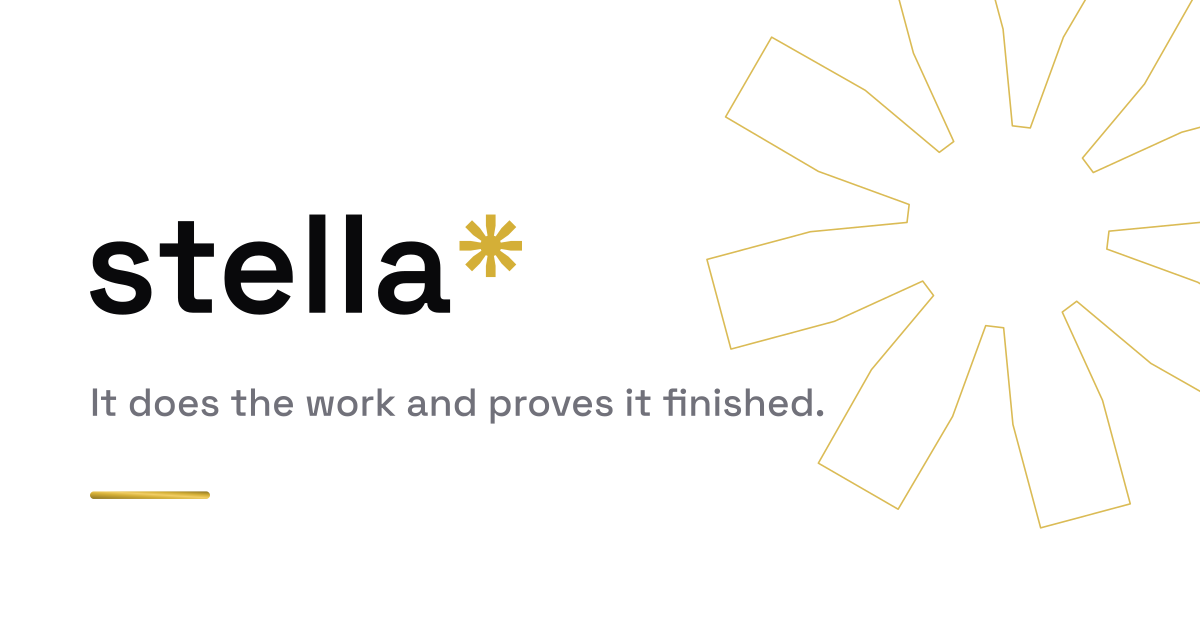
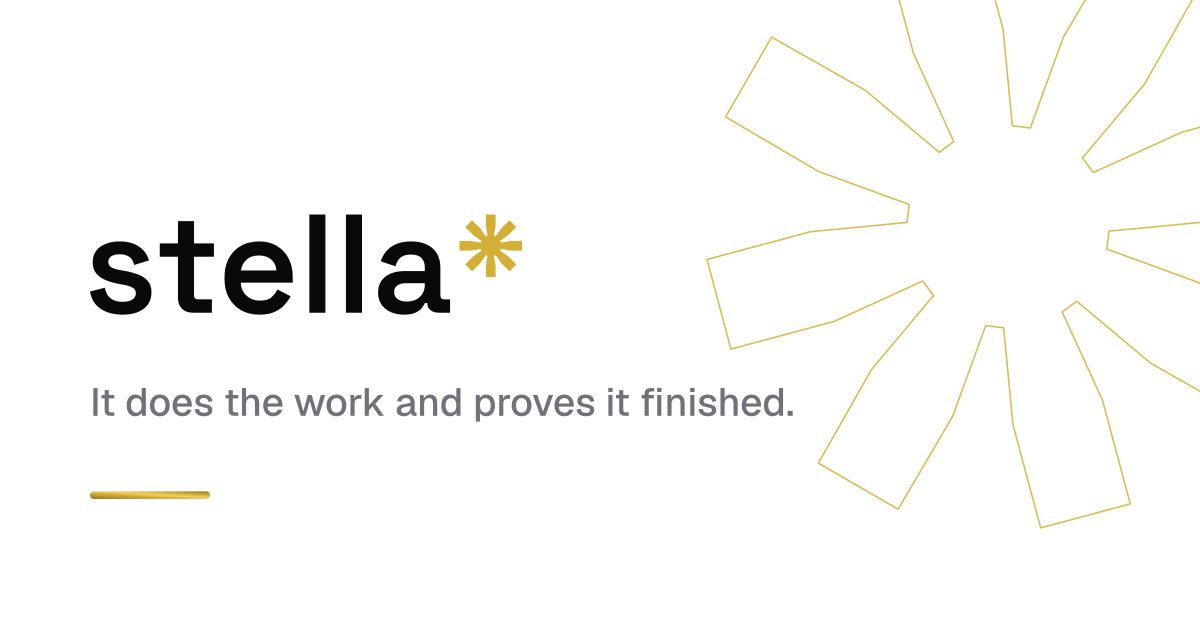
brand: sync to kit 2.5.0
Kit 2.5.0 (macanderson/oxagen-brand#49) adds a text stop for each state and
redraws the social art with Geist sublines. The sync brings in the new
tokens, the generated marks module, and the social images.

Changed region(s): [[0.0617, 0.6032, 0.6783, 0.6635]]

diff --git a/docs/brand/css/house-tokens.css b/docs/brand/css/house-tokens.css
@@ -11,6 +11,8 @@
  * State is carried by border shape. The st-* colours are for the badge or
  * dot inside a table where shape is too small to read, never the only
  * signal. destructive is the failed red lifted until it clears AA on ink.
+ * A word in a state's colour takes its text stop, st-*-text on ink and
+ * st-*-text-ink on paper, which clears 4.5:1 on every surface of its theme.
  *
  * Geist sets every heading and everything read. Monaspace Neon sets code,
  * logs, digests, and the numbers in tables. Space Grotesk sets the
@@ -41,6 +43,7 @@
   --ox-text-ink: #09090B; /* primary text on paper */
   --ox-text-ink-body: #27272A; /* body text on paper */
   --ox-muted-ink: #71717A; /* secondary text on paper */
+  --ox-muted-text-ink: #6E6E77; /* secondary text on paper and on a lifted row there */
   --ox-dim-ink: #A1A1AA; /* the quietest text on paper */
 
   --ox-st-allowed: #57A97C; /* a request a rule allowed, on ink */
@@ -57,6 +60,21 @@
   --ox-st-critical-ink: #AE2540; /* the same, on paper */
   --ox-destructive: #D5584D; /* a destructive action, on ink: text and fill */
   --ox-destructive-ink: #992F28; /* the same, on paper */
+
+  --ox-st-allowed-text: #57A97C; /* allowed as words, on ink, panel, and hl */
+  --ox-st-allowed-text-ink: #2F7D52; /* allowed as words, on paper and paper-hl */
+  --ox-st-approval-text: #6098DB; /* approval as words, on ink, panel, and hl */
+  --ox-st-approval-text-ink: #2E6BA8; /* approval as words, on paper and paper-hl */
+  --ox-st-denied-text: #D67858; /* denied as words, on ink, panel, and hl */
+  --ox-st-denied-text-ink: #9B4526; /* denied as words, on paper and paper-hl */
+  --ox-st-proven-text: #44A7A7; /* proven as words, on ink, panel, and hl */
+  --ox-st-proven-text-ink: #1F7676; /* proven as words, on paper and paper-hl */
+  --ox-st-failed-text: #E7685C; /* failed as words, on ink, panel, and hl */
+  --ox-st-failed-text-ink: #992F28; /* failed as words, on paper and paper-hl */
+  --ox-st-critical-text: #EF5C72; /* critical as words, on ink, panel, and hl */
+  --ox-st-critical-text-ink: #AE2540; /* critical as words, on paper and paper-hl */
+  --ox-destructive-text: #E7685C; /* destructive as words, on ink, panel, and hl */
+  --ox-destructive-text-ink: #992F28; /* destructive as words, on paper and paper-hl */
 
   --ox-gold-sheen: linear-gradient(45deg, #8A7223 0%, #D4AF37 38%, #F1CE65 56%, #D4AF37 74%, #8A7223 100%);
 

diff --git a/website/src/brand/house-tokens.css b/website/src/brand/house-tokens.css
@@ -11,6 +11,8 @@
  * State is carried by border shape. The st-* colours are for the badge or
  * dot inside a table where shape is too small to read, never the only
  * signal. destructive is the failed red lifted until it clears AA on ink.
+ * A word in a state's colour takes its text stop, st-*-text on ink and
+ * st-*-text-ink on paper, which clears 4.5:1 on every surface of its theme.
  *
  * Geist sets every heading and everything read. Monaspace Neon sets code,
  * logs, digests, and the numbers in tables. Space Grotesk sets the
@@ -41,6 +43,7 @@
   --ox-text-ink: #09090B; /* primary text on paper */
   --ox-text-ink-body: #27272A; /* body text on paper */
   --ox-muted-ink: #71717A; /* secondary text on paper */
+  --ox-muted-text-ink: #6E6E77; /* secondary text on paper and on a lifted row there */
   --ox-dim-ink: #A1A1AA; /* the quietest text on paper */
 
   --ox-st-allowed: #57A97C; /* a request a rule allowed, on ink */
@@ -57,6 +60,21 @@
   --ox-st-critical-ink: #AE2540; /* the same, on paper */
   --ox-destructive: #D5584D; /* a destructive action, on ink: text and fill */
   --ox-destructive-ink: #992F28; /* the same, on paper */
+
+  --ox-st-allowed-text: #57A97C; /* allowed as words, on ink, panel, and hl */
+  --ox-st-allowed-text-ink: #2F7D52; /* allowed as words, on paper and paper-hl */
+  --ox-st-approval-text: #6098DB; /* approval as words, on ink, panel, and hl */
+  --ox-st-approval-text-ink: #2E6BA8; /* approval as words, on paper and paper-hl */
+  --ox-st-denied-text: #D67858; /* denied as words, on ink, panel, and hl */
+  --ox-st-denied-text-ink: #9B4526; /* denied as words, on paper and paper-hl */
+  --ox-st-proven-text: #44A7A7; /* proven as words, on ink, panel, and hl */
+  --ox-st-proven-text-ink: #1F7676; /* proven as words, on paper and paper-hl */
+  --ox-st-failed-text: #E7685C; /* failed as words, on ink, panel, and hl */
+  --ox-st-failed-text-ink: #992F28; /* failed as words, on paper and paper-hl */
+  --ox-st-critical-text: #EF5C72; /* critical as words, on ink, panel, and hl */
+  --ox-st-critical-text-ink: #AE2540; /* critical as words, on paper and paper-hl */
+  --ox-destructive-text: #E7685C; /* destructive as words, on ink, panel, and hl */
+  --ox-destructive-text-ink: #992F28; /* destructive as words, on paper and paper-hl */
 
   --ox-gold-sheen: linear-gradient(45deg, #8A7223 0%, #D4AF37 38%, #F1CE65 56%, #D4AF37 74%, #8A7223 100%);
 

diff --git a/website/src/components/brand-marks.generated.ts b/website/src/components/brand-marks.generated.ts
@@ -41,6 +41,7 @@ export const HOUSE_COLORS = {
   "text-ink": "#09090B",
   "text-ink-body": "#27272A",
   "muted-ink": "#71717A",
+  "muted-text-ink": "#6E6E77",
   "dim-ink": "#A1A1AA",
 } as const;
 
